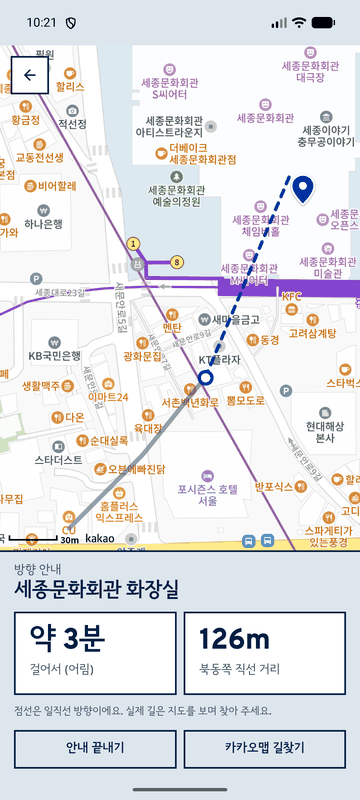
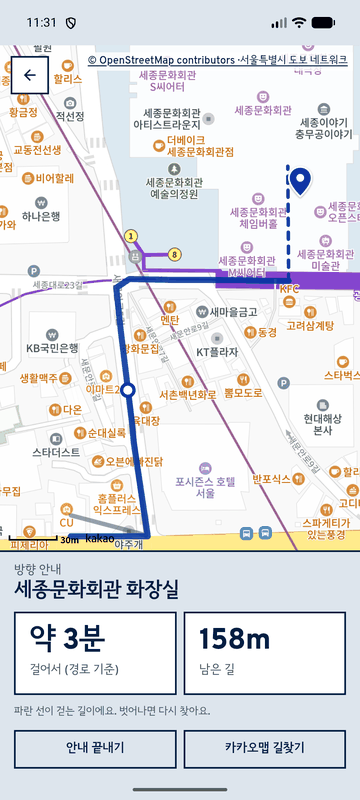
README: walk guide screenshots with the real walking route

diff --git a/README.md b/README.md
@@ -4,7 +4,7 @@
 
 ## 주요 기능 (화장실 찾기)
 
-아래 화면은 Android 에뮬레이터에서 찍었다 (2026-11-16, 광화문 근처, 로컬 백엔드에 LOCALDATA 전국 데이터를 넣은 상태). 개방 상태는 찍은 시각 기준이다.
+아래 화면은 Android 에뮬레이터에서 찍었다 (2026-11-16, 광화문 근처, 로컬 백엔드에 LOCALDATA 전국 데이터와 도보 도로망을 넣은 상태). 개방 상태는 찍은 시각 기준이다. 경로 데이터 출처: © OpenStreetMap contributors (ODbL), 서울특별시 도보 네트워크 (공공누리 1유형).
 
 ### 지도와 목록
 
@@ -34,8 +34,8 @@
 
 | 걷는 중 | 도착 |
 |:-:|:-:|
-| <img src="docs/screenshots/10-guide.png" width="240" alt="방향 안내: 화장실까지 점선 직선과 지나온 길, 약 3분과 126m 북동쪽"> | <img src="docs/screenshots/11-arrived.png" width="240" alt="방향 안내: 다 왔어요"> |
-| 내 위치에서 화장실까지 **일직선(점선)**과 지나온 길(실선), 걷는 시간 어림과 직선 거리·방향. 앱이 GPS 를 1초 간격으로 따라가고(`watchLocation` 브리지), 앱이 화면에서 내려가면 쉰다 | 20m 안에 들어오면 "다 왔어요"로 바뀌고 GPS 를 끈다. 실제 길 안내는 카카오맵 길찾기를 늘 옆에 둔다 |
+| <img src="docs/screenshots/10-guide.png" width="240" alt="방향 안내: 파란 실제 도보 경로와 지나온 길, 경로 끝에서 화장실까지 점선, 약 3분과 158m 남은 길"> | <img src="docs/screenshots/11-arrived.png" width="240" alt="방향 안내: 다 왔어요"> |
+| 서버가 찾은 **실제 도보 경로(파란 선)**와 지나온 길(회색), 경로 기준 남은 시간·거리. 서울은 서울시 도보 네트워크(횡단보도·육교 포함), 그 밖은 OpenStreetMap. 경로가 길에서 끝나면 화장실까지 점선으로 잇는다. 35m 넘게 벗어나면 다시 찾고, 경로를 못 받으면 일직선 안내로. 앱이 GPS 를 1초 간격으로 따라가고(`watchLocation` 브리지), 앱이 화면에서 내려가면 쉰다 | 20m 안에 들어오면 "다 왔어요"로 바뀌고 GPS 를 끈다. 카카오맵 길찾기(도보·차)는 늘 옆에 둔다 |
 
 이 밖에 웹에서: 이름·주소 검색, 평점과 댓글(도움돼요/아니에요, 신고), 새 화장실·정보 수정 제보, 내 정보와 설정(이름 바꾸기, 언어, 로그아웃, 회원 탈퇴), 관리자 화면.
 
